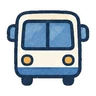
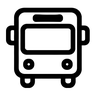
Add files via upload

diff --git a/modules/plan.js b/modules/plan.js
@@ -3,7 +3,7 @@ import { doc, collection, onSnapshot, setDoc, updateDoc, deleteDoc, serverTimest
 import { $, $$, esc, ic, toast, copyText, localGet, localSet } from './ui.js';
 import { todayIn, dayCount, tripStatus } from './places.js';
 
-// 類型：圖示在 img/kinds/（Gemini 畫的貼紙風圖示）
+// 類型：圖示在 img/kinds/（Gemini 畫的線條圖示，用遮罩上色，顏色跟著深淺色主題）
 const KINDS = {
   spot: { label: '景點／活動', group: 'stay' },
   food: { label: '吃東西', group: 'stay' },
@@ -18,7 +18,7 @@ const KINDS = {
 const isGo = k => KINDS[k]?.group === 'go';
 // 舊資料：類型是「移動」但標題寫步行，當成步行
 const kindOf = x => (x.kind === 'move' && /步行|走路/.test(x.title || '') ? 'walk' : (KINDS[x.kind] ? x.kind : 'spot'));
-const kindImg = (x, cls = '') => `<img class="kicon ${cls}" src="img/kinds/${kindOf(x)}.webp" alt="" width="36" height="36">`;
+const kindImg = (x, cls = '') => { const k = kindOf(x); return `<span class="kind ${cls} ${isGo(k) ? 'go' : ''}" aria-hidden="true"><span class="kmask" style="--k:url(img/kinds/${k}.webp)"></span></span>`; };
 const durLabel = k => `${isGo(k) ? '車程時間' : '停留時間'}（分鐘，選填）`;
 const W = ['日', '一', '二', '三', '四', '五', '六'];
 const mapsSearch = q => `https://www.google.com/maps/search/?api=1&query=${encodeURIComponent(q)}`;

diff --git a/index.html b/index.html
@@ -156,10 +156,9 @@ textarea.input { min-height: 84px; padding: 10px 14px; line-height: 1.6; resize:
 .it.move .acts { padding-left: 40px; }
 .tiny svg, .small svg { vertical-align: -2px; margin-right: 2px; }
 .kind.sm { width: 30px; height: 30px; }
-.kicon { width: 36px; height: 36px; flex-shrink: 0; object-fit: contain; }
-.kicon.sm { width: 30px; height: 30px; }
+.kmask { width: 64%; height: 64%; background: currentColor; -webkit-mask: var(--k) center / contain no-repeat; mask: var(--k) center / contain no-repeat; }
+.kind.go { background: var(--sunk); color: var(--ink2); }
 .kind.sm svg { width: 18px; height: 18px; }
-.kind.move-k { background: var(--sunk); color: var(--ink2); }
 .home-btn img { width: 32px; height: 32px; border-radius: 9px; display: block; }
 
 /* 調整順序 */

diff --git a/modules/trips.js b/modules/trips.js
@@ -8,7 +8,7 @@ import { renderPlan, watchItems, isBusy, exitSort } from './plan.js';
 import { COUNTRIES, countryBy, CURRENCIES, CUR_NAME, timeZones, todayIn, dayCount, tripStatus, STATUS_LABEL,
   fmtRange, placesText } from './places.js';
 
-export const APP_VERSION = 'v0.3.3';
+export const APP_VERSION = 'v0.3.4';
 const OTHER = 'OT';
 // 旅程裡的分頁（資訊、行程…）是同一層，左上角放回首頁的 logo；點進去的細項頁才用「上一頁」箭頭
 const homeBtn = `<a class="iconbtn home-btn" href="#/" aria-label="回首頁（旅程列表）" style="margin-left:-6px"><img src="img/icon-192.png" alt="" width="32" height="32"></a>`; // 清單以外的國家

diff --git a/sw.js b/sw.js
@@ -1,6 +1,6 @@
 // 離線快取：網頁本身先試網路、沒網路用快取；圖片、字體、Firebase 程式庫先用快取
 // 每次更新網站都要改 VERSION，大家重新整理後才會拿到新版
-const VERSION = 'lb-v6';
+const VERSION = 'lb-v7';
 const AVATAR_CACHE = 'lb-avatars'; // Google 頭像（跨版本保留，離線也看得到）
 const SHELL = ['./', './index.html', './app.js', './firebase-config.js', './manifest.webmanifest',
   './modules/ui.js', './modules/color.js', './modules/profile.js', './modules/trips.js', './modules/places.js', './modules/plan.js',
